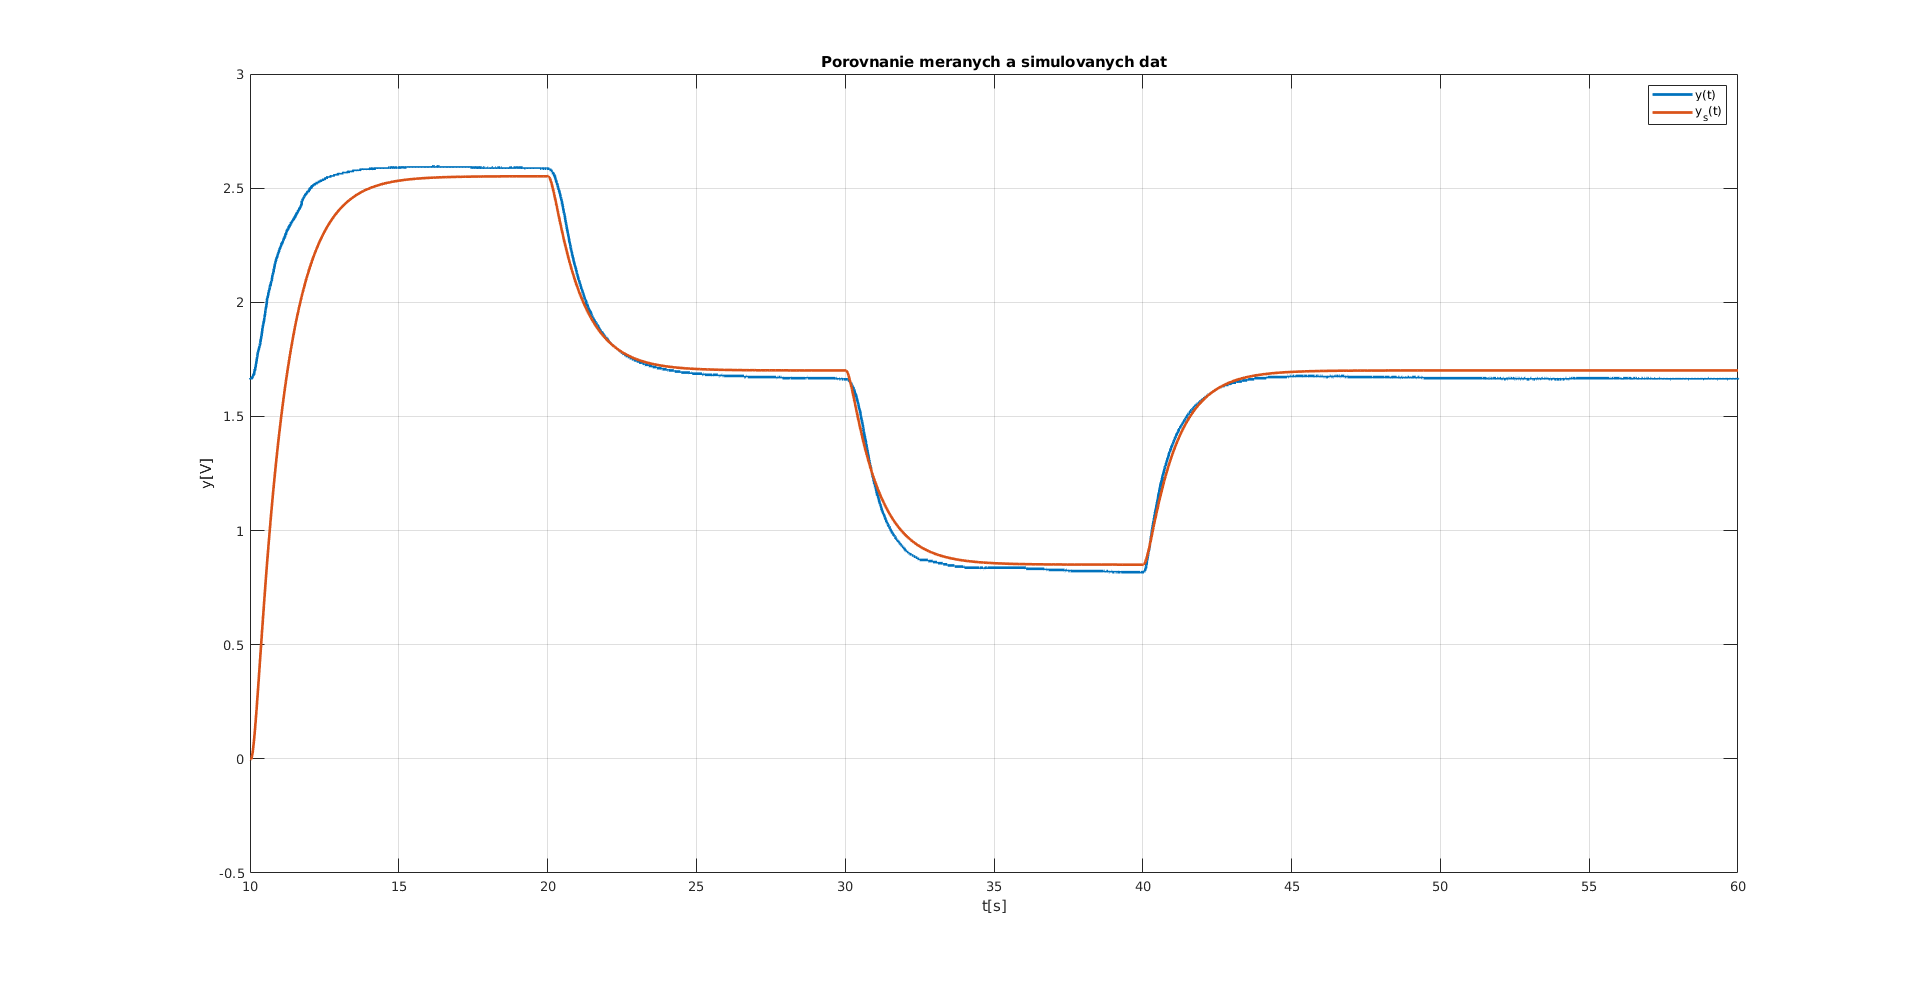
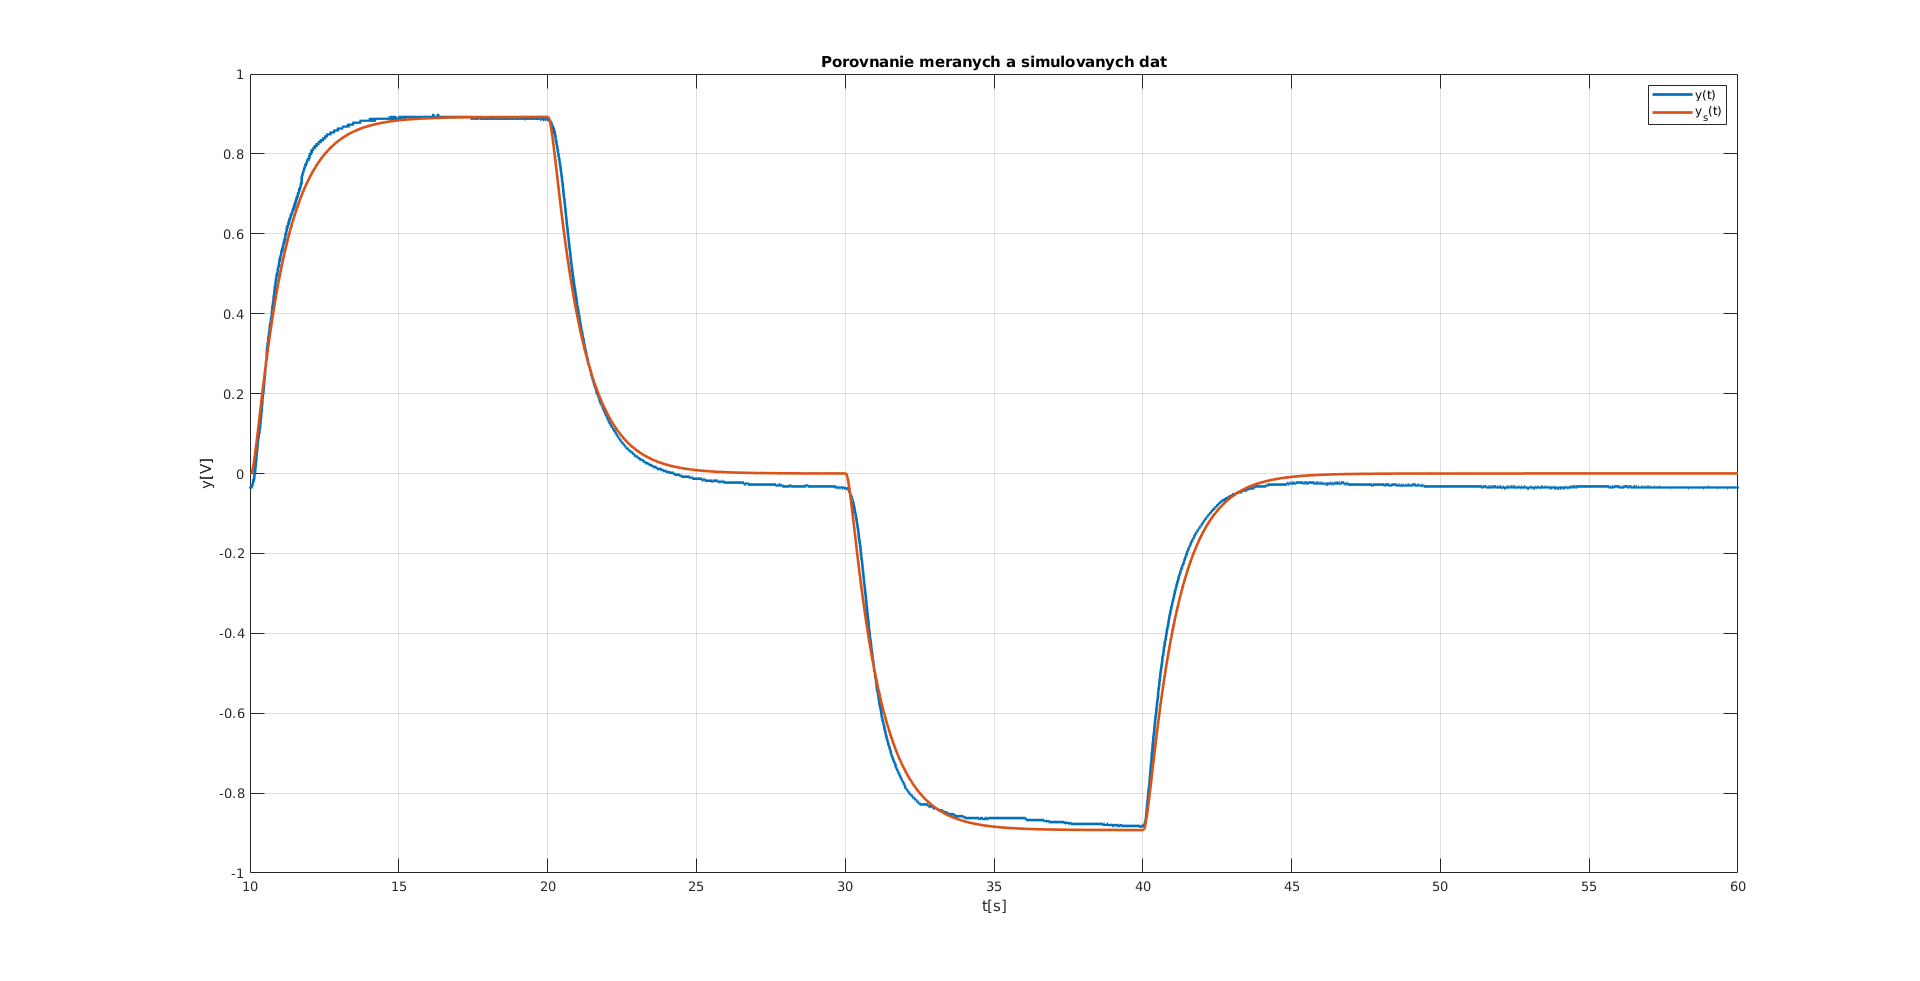
zad7: uloha3

diff --git a/zad7/referat/main.tex b/zad7/referat/main.tex
@@ -295,6 +295,12 @@ Našou tretou úlohou je zobrať prenosovú funkciu, ktorá najlepšie opisovala
 iný tvar vstupného signálu. Ako je navrhované v~zadaní, zmenili sme hodnotu, okolo ktorej sa pohybuje vstupný signál.
 Túto hodnotu sme zvýšili zo~4V na~5V.
 
+Ustalene hodnoty vstupného signálu sú:
+\begin{itemize}
+	\item $U_0 = 5V$
+	\item $Y_0 = 8.6813$
+\end{itemize}
+
 \begin{figure}[!htbp]
 	\begin{center}
 		\includegraphics[width=0.95\textwidth]{include/uloha3.png}
@@ -304,11 +310,16 @@ Túto hodnotu sme zvýšili zo~4V na~5V.
 \end{figure}
 
 Ako môžeme vidieť na~obrázku Obr.~\ref{fig:u3}, identifikácia sa nám podarila presnejšie, ako pri~samotných meraniach.
-Odchýlka nám vyšla ale~vyšla $e = 200,5475$. To~kvôli tomu, že~simulácia začína z~hodnoty 0 a~z~meraných dát sme odsekli
-prvých 10 sekúnd. Vtedy bol systém už~usadený na~danej hodnote.
+Odchýlka nám vyšla $e = 4,3227$.
 
-\section{Zaver}
+\clearpage
+
+\section{Záver}
 \label{sec:zaver}
+
+Na základe porovnania simulovaného a meraného systému vieme z grafov skonštatovať, že simulovaná prenosová funkcia
+lepšie opisuje výsledný graf vo vyššom pracovnom bode $U_0 = 5V$ ako v pracovnom bode $U_0 = 4V$, kde bola funkcia
+navrhnutá.
 
 \end{document}
 

diff --git a/zad7/startup.m b/zad7/startup.m
@@ -11,8 +11,8 @@ tm = y_signal.Values.Time ;
 
 indxs = find(tm > 10); 
 
-U0 = 4; %4 %5
-Y0 = 6.98; %6.94 %8.638
+U0 = 5; %4 %5
+Y0 = 8.6425k; %6.94 %8.638
 
 u = um(indxs)-U0;
 y = ym(indxs)-Y0;
